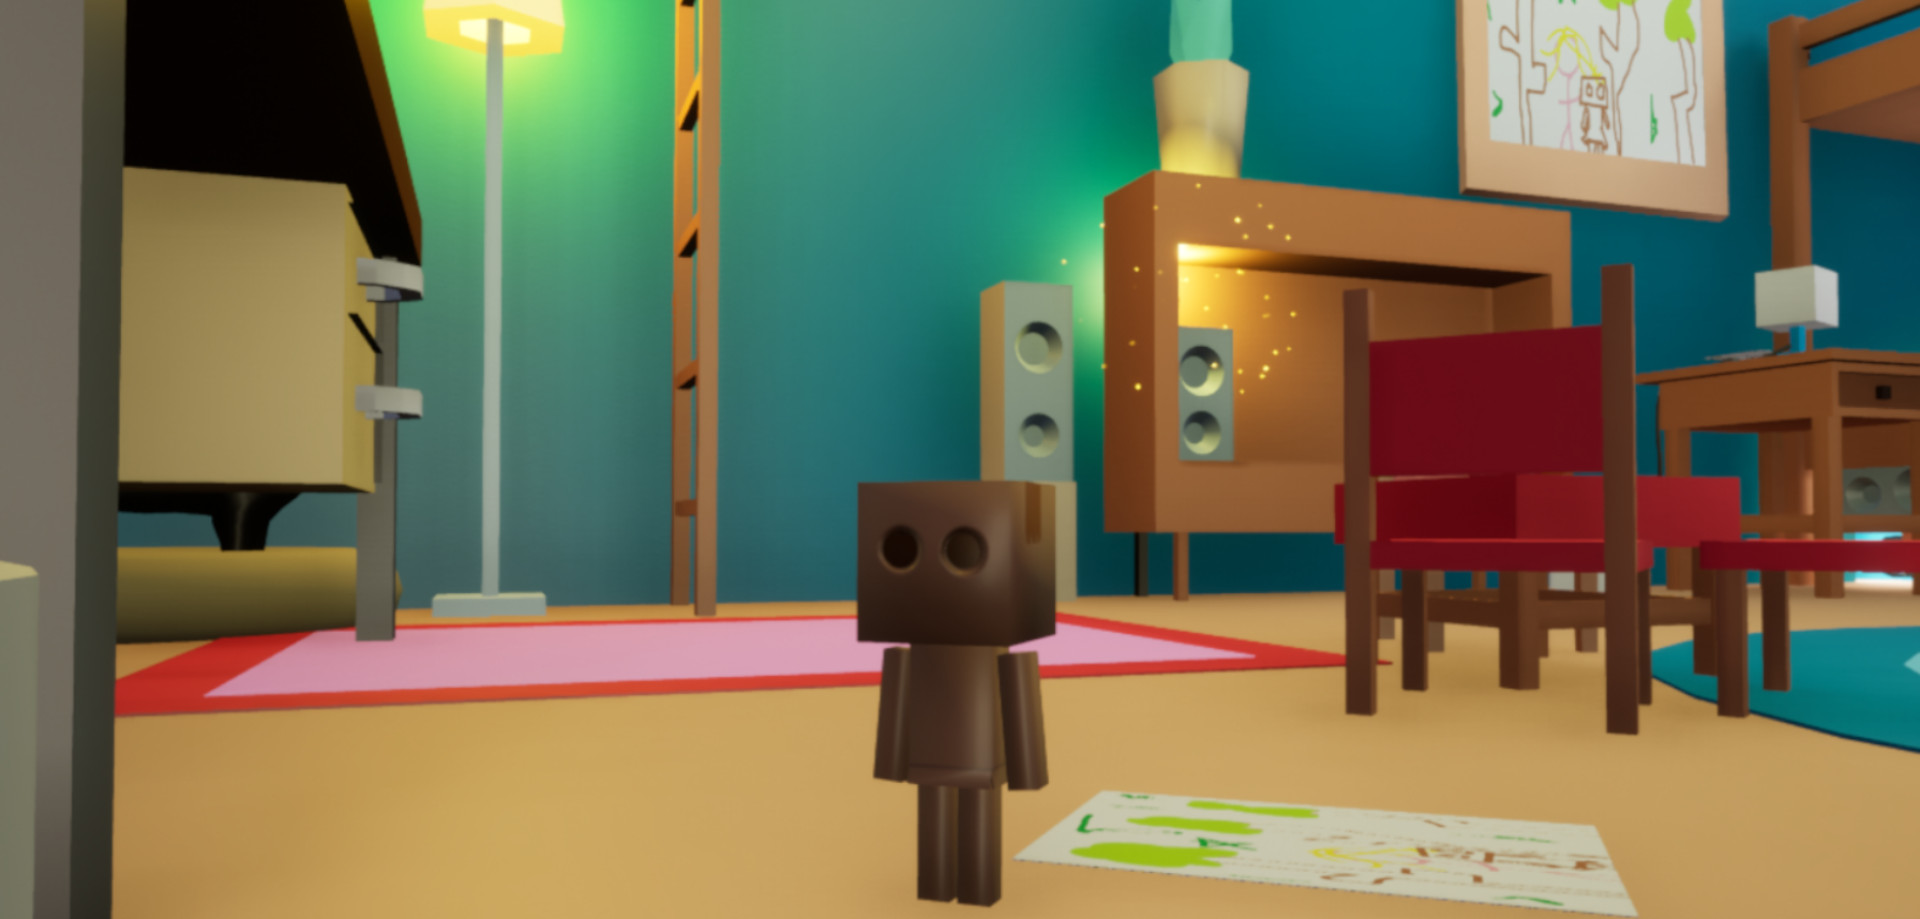
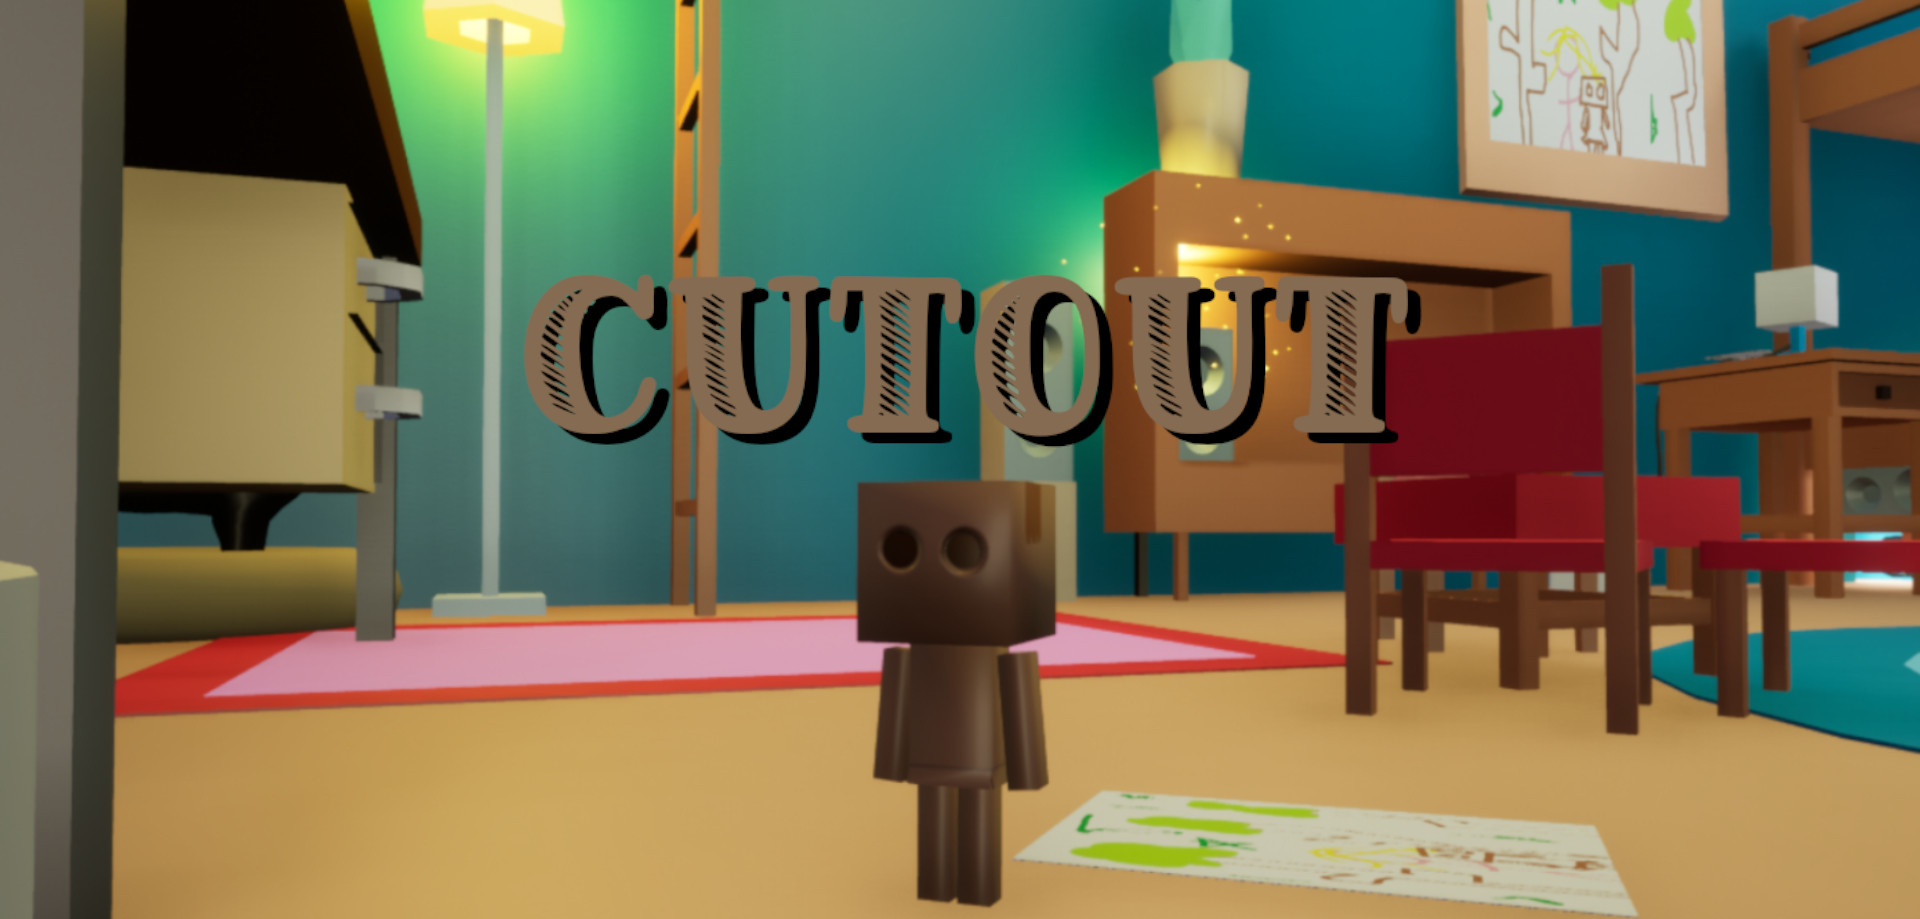
misc: rework gmae images

Changed region(s): [[0.25, 0.2742, 0.75, 0.4875]]

diff --git a/index.html b/index.html
@@ -70,7 +70,7 @@
         <h1>Welcome to EldrEnSvell</h1>
         <p>At <strong>EldrEnSvell</strong>, we are passionate about creating worlds and stories and exploring them through games.</br>
             With already a few small games out, we are currently working on a way bigger title being a <strong>story-driven open world game</strong>!</p> 
-        <p>Recently created, the studio only count one member being game developer but trying his way through 3D modeling and design as well.</p>
+        <p>Recently created, the studio currently consists of a single game developer trying his way through 3D modeling and design as well.</p>
         <p>Founded by <strong>Frenox</strong>, the studio is currently working on its major title: <strong>The Rise of Hraesvelg</strong>!</p>
         <!-- About the Studio Start
         <section class="about-section">

diff --git a/games/screwup.html b/games/screwup.html
@@ -47,7 +47,7 @@
     <!-- Navbar End -->
     <main>
         <div class="game-single-banner">
-            <img src="../images/Caroussel/ScrewUp.jpg" alt="Screw Up! Banner">
+            <img src="../images/games/screwup-banner.png" alt="Screw Up! Banner">
         </div>
         <section class="game-single-section">
             <h1>Screw Up!</h1>
@@ -64,7 +64,7 @@
                 </ul>
             </div>
             <div class="game-single-screenshot" data-layout="mosaic">
-                <img src="../images/Caroussel/ScrewUp.jpg" alt="Screw Up! Main">
+                <img src="../images/games/screwup-0.png" alt="Screw Up! 0">
                 <img src="../images/games/screwup-1.png" alt="Screw Up! 1">
                 <img src="../images/games/screwup-2.png" alt="Screw Up! 2">
             </div>

diff --git a/games/troh.html b/games/troh.html
@@ -47,7 +47,7 @@
     <!-- Navbar End -->
     <main>
         <div class="game-single-banner">
-            <img src="../images/Caroussel/TROH.jpg" alt="The Rise of Hraesvelg Banner">
+            <img src="../images/games/troh-banner.png" alt="The Rise of Hraesvelg Banner">
         </div>
         <section class="game-single-section">
             <h1>The Rise of Hraesvelg</h1>
@@ -63,7 +63,7 @@
                 </ul>
             </div>
             <div class="game-single-screenshot" data-layout="mosaic">
-                <img src="../images/Caroussel/TROH.jpg" alt="TROH Main">
+                <img src="../images/games/troh-0.png" alt="TROH 0">
                 <img src="../images/games/troh-1.png" alt="TROH 1">
                 <img src="../images/games/troh-2.png" alt="TROH 2">
             </div>

diff --git a/games/cutout.html b/games/cutout.html
@@ -47,7 +47,7 @@
     <!-- Navbar End -->
     <main>
         <div class="game-single-banner">
-            <img src="../images/Caroussel/Cutout.jpg" alt="Cutout Banner">
+            <img src="../images/games/cutout-banner.png" alt="Cutout Banner">
         </div>
         <section class="game-single-section">
             <h1>Cutout</h1>
@@ -64,7 +64,7 @@
                 </ul>
             </div>
             <div class="game-single-screenshot" data-layout="mosaic-right">
-                <img src="../images/Caroussel/Cutout.jpg" alt="Cutout Main">
+                <img src="../images/games/cutout-0.png" alt="Cutout 0">
                 <img src="../images/games/cutout-1.png" alt="Cutout 1">
                 <img src="../images/games/cutout-2.png" alt="Cutout 2">
             </div>
